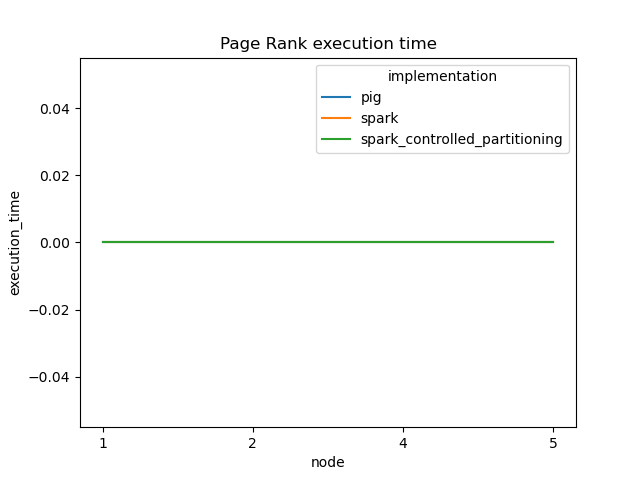
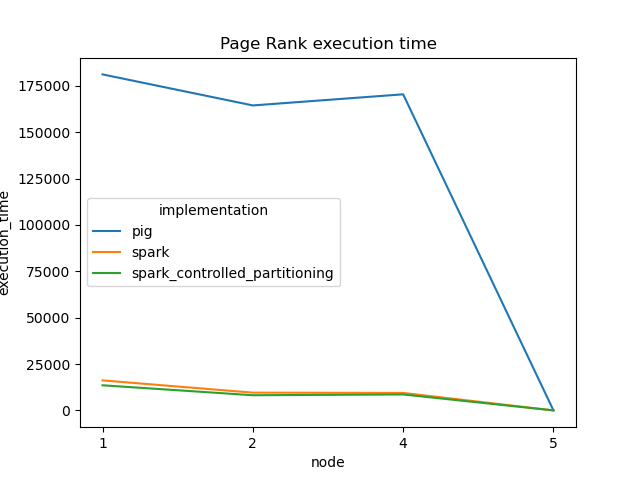
Fix code

diff --git a/README.md b/README.md
@@ -49,3 +49,9 @@ With gs://public_lddm_data/small_page_links.nt :
 The plot for this amount of data is bellow :
 
 ![small_page_links.nt plot](img/small_page_links.nt.png)
+
+To get theses plot, you need to enter this command bellow :
+
+```py
+python3 scripts/dataproc_plot.py results/pagesrank.json img/
+```
